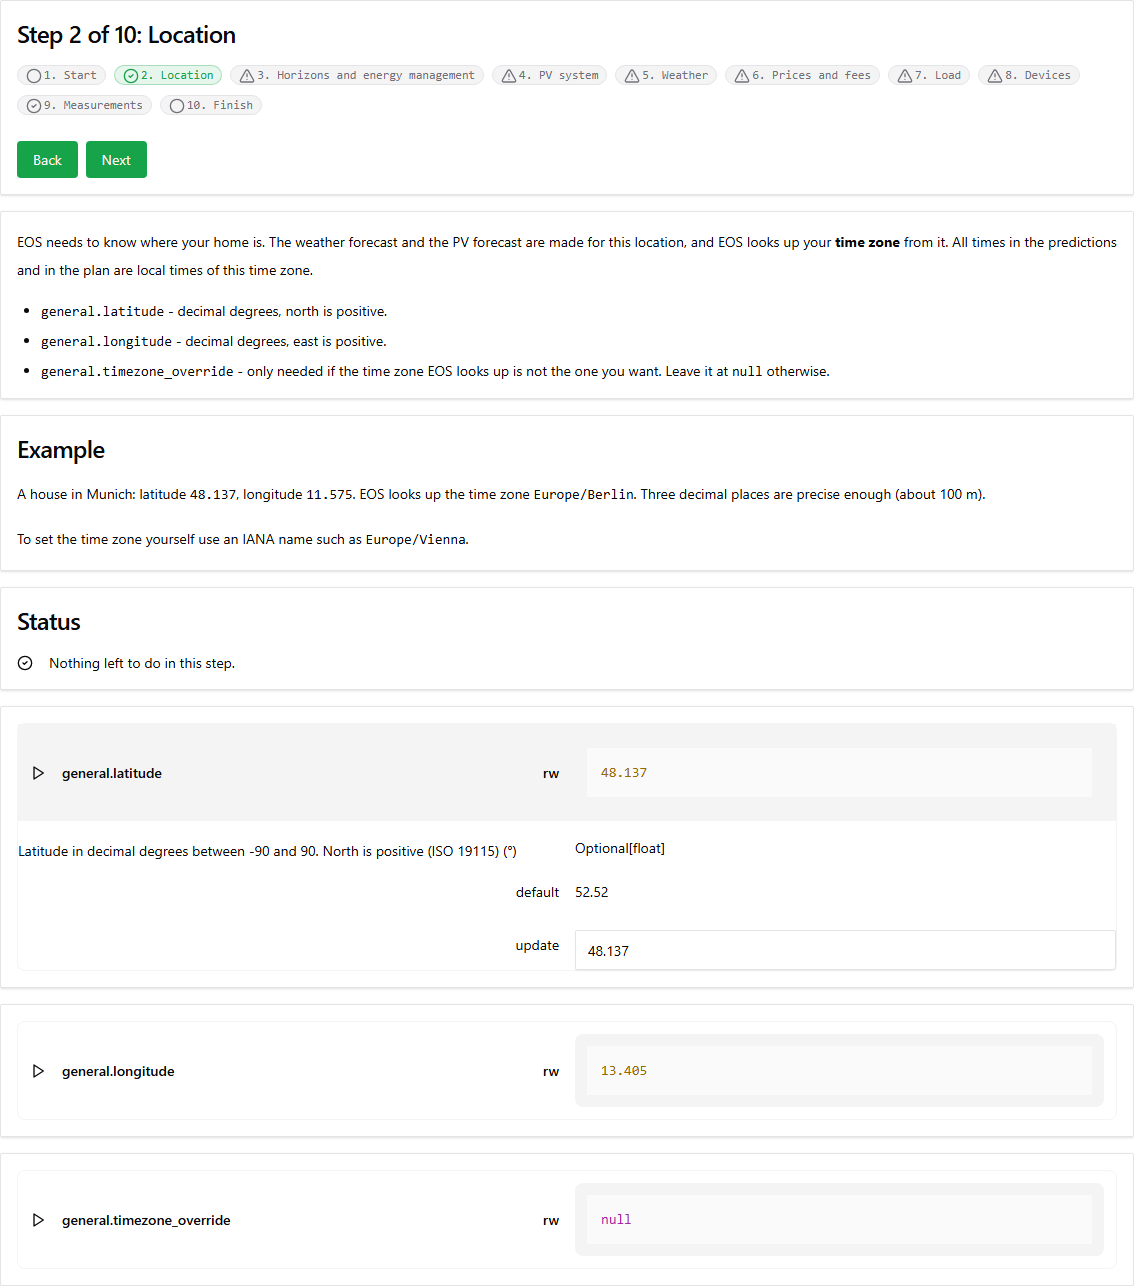
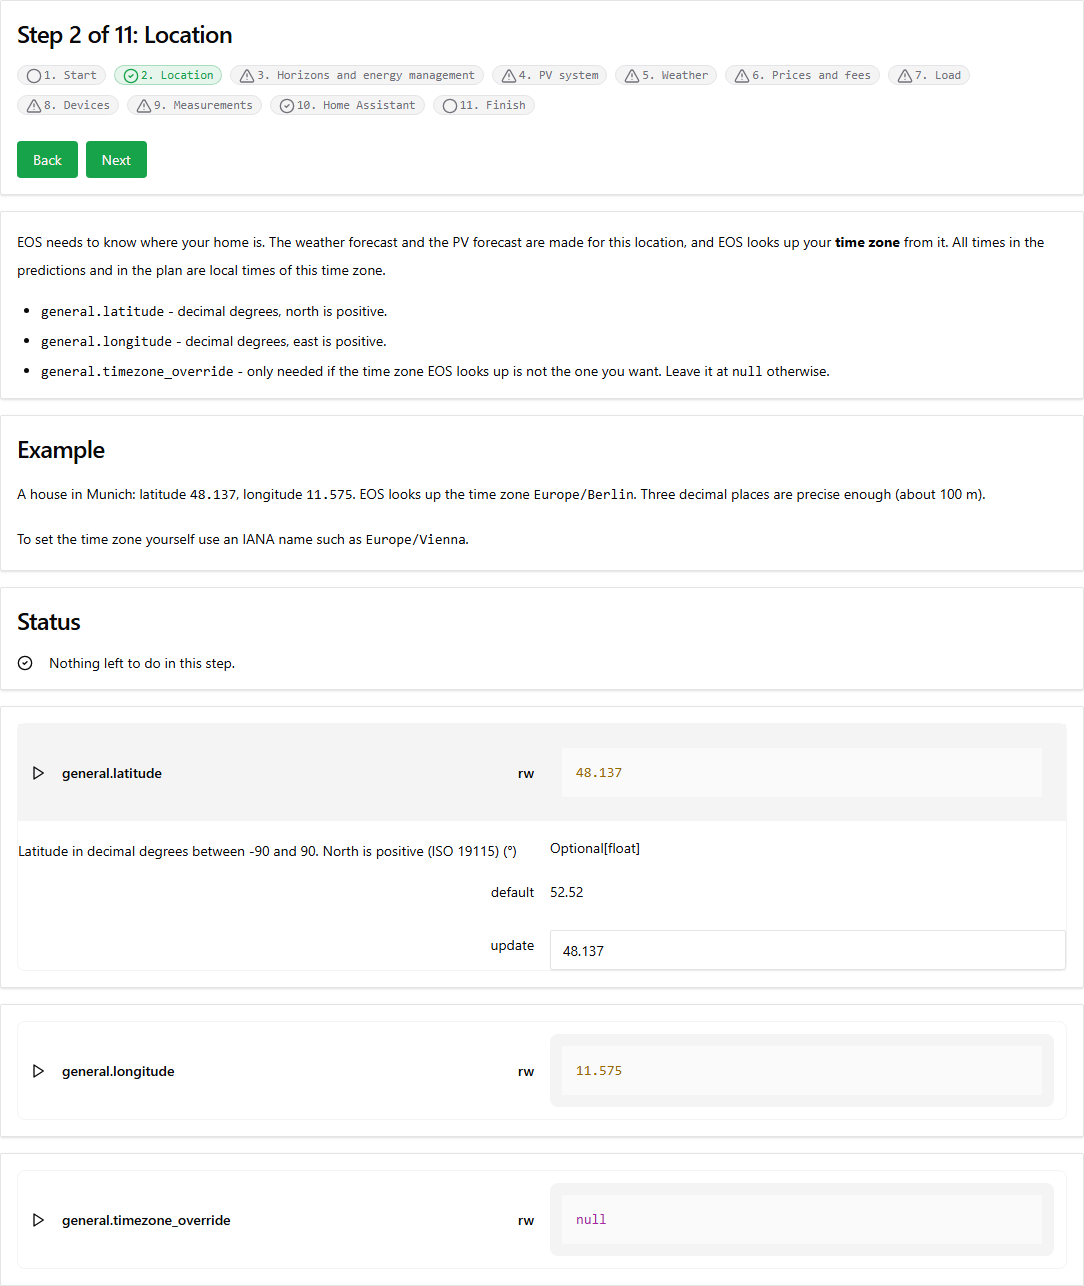
docs(eosdash): describe the Home Assistant step of the setup assistant
Add the new Home Assistant step to the list of steps, say that the Home Assistant adapter
needs EOS to run as an add-on and that an automation has to act on the instructions, and
update the screenshot to the eleven steps.

Assisted-by: Claude Code (claude-opus-5-5)

diff --git a/docs/akkudoktoreos/setup.md b/docs/akkudoktoreos/setup.md
@@ -55,13 +55,15 @@ save the configuration in the last step of the assistant. See the
 6. **Prices and fees**: the electricity price, the fees added to it and the feed-in tariff.
 7. **Load**: the forecast of your consumption.
 8. **Devices**: batteries, inverters, electric vehicles and home appliances.
-9. **Measurements**: how the current state of charge and the meter readings get to EOS. See
-   [measurements](#measurement-page), the [Home Assistant adapter](#adapter-homeassistant-page) and
-   the [Node-RED adapter](#adapter-nodered-page).
-10. **Finish** shows the status of all steps and a button to save the configuration.
+9. **Measurements**: how the current state of charge and the meter readings get to EOS, and the
+   choice of the adapter. See [measurements](#measurement-page) and the
+   [Node-RED adapter](#adapter-nodered-page).
+10. **Home Assistant**: what EOS reads from and writes to Home Assistant, with a template sensor
+    and an automation as example. See the [Home Assistant adapter](#adapter-homeassistant-page).
+11. **Finish** shows the status of all steps and a button to save the configuration.
 
-You do not need every step. Skip the **PV system** step if you have no PV system, and set up only
-the devices you have.
+You do not need every step. Skip the **PV system** step if you have no PV system, the **Home
+Assistant** step if you do not use Home Assistant, and set up only the devices you have.
 
 ## Things to Know
 
@@ -80,9 +82,16 @@ the devices you have.
   check whether measurements actually arrive at EOS. If your own system sends the state of charge
   with `PUT /v1/measurement/value` and no adapter is selected, the step keeps reporting that no
   source for the state of charge is known - you can ignore this. The other way round, a step
-  without a warning does not prove that the state of charge arrives: only the entity mapping of the
-  Home Assistant adapter is checked. Look at the **Plan** page or the EOS log to see whether EOS
-  plans with the real state of charge.
+  without a warning does not prove that the state of charge arrives: the **Home Assistant** step
+  only checks that an entity is mapped, not that it delivers a value. Look at the **Plan** page or
+  the EOS log to see whether EOS plans with the real state of charge.
+- **The Home Assistant adapter needs the add-on.** It reaches Home Assistant only when EOS runs as
+  a Home Assistant add-on; there is no setting for an address or a token. If EOS runs elsewhere,
+  let Home Assistant send the measurements with `PUT /v1/measurement/value`, e.g. with a
+  `rest_command`.
+- **EOS does not switch your devices.** With the Home Assistant adapter EOS writes its instruction
+  for a device to the entity `sensor.eos_<device_id>`. An automation in Home Assistant has to act
+  on it.
 
 ## After the Setup
 
